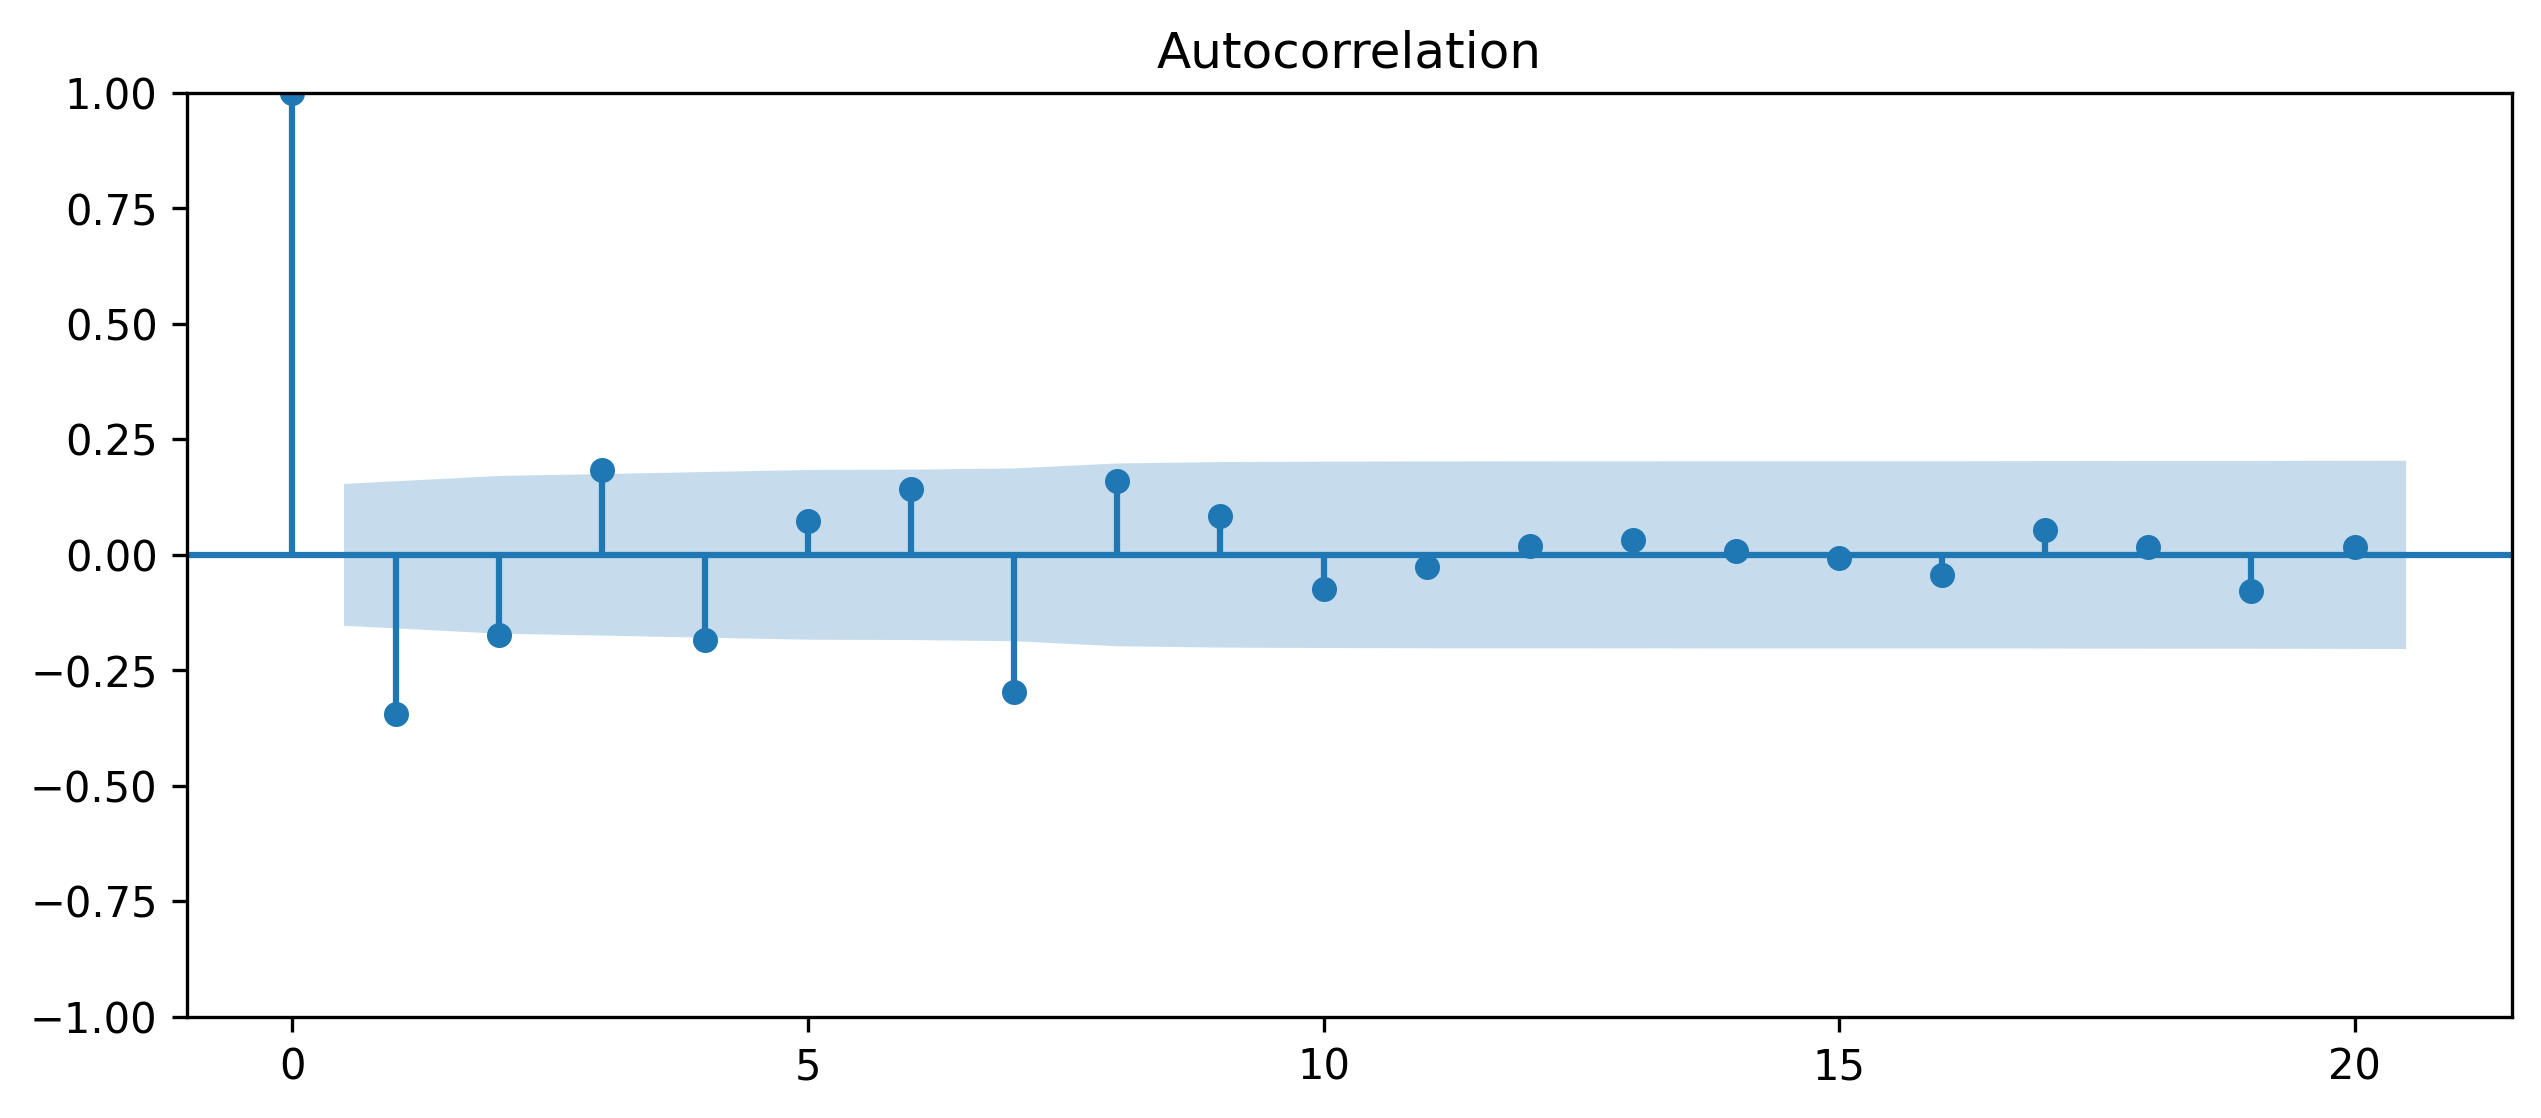
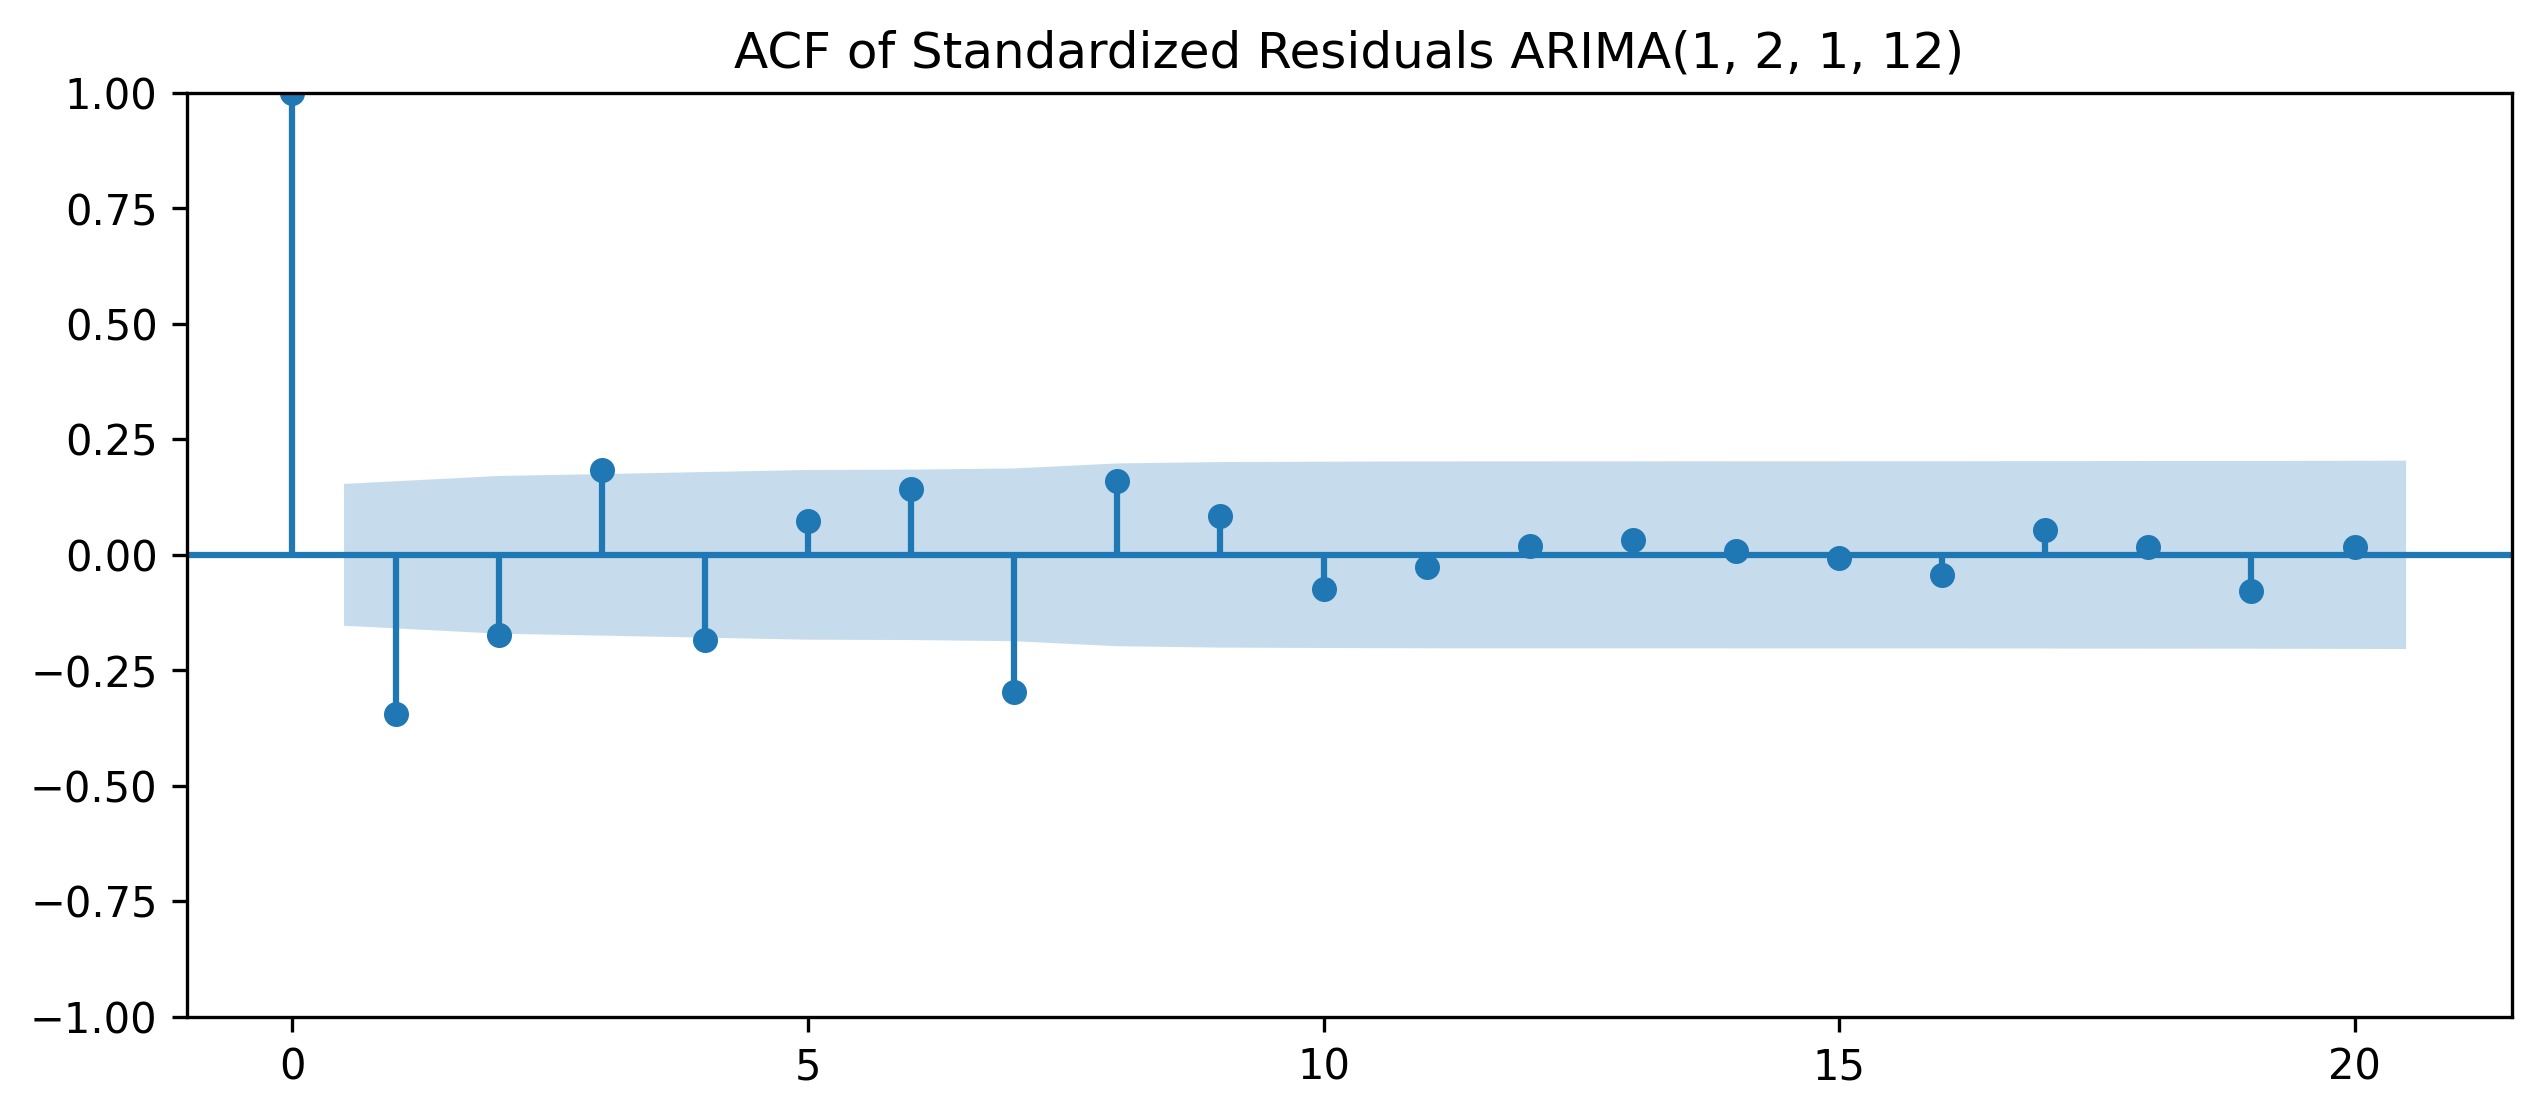
prac model

Changed region(s): [[0.2798, 0.0304, 0.7773, 0.0608]]

diff --git a/practice/statistical_model/ARIMA_model.py b/practice/statistical_model/ARIMA_model.py
@@ -41,9 +41,16 @@ def get_log_dir() -> Path:
 
 # --- Hàm hỗ trợ ghi file ---
 def save_report(content, filename):
-    with open(filename, 'w', encoding='utf-8') as f:
+    """Lưu báo cáo vào file. Tự động sử dụng get_log_dir() nếu filename là đường dẫn tương đối."""
+    # Nếu filename không phải đường dẫn tuyệt đối, sử dụng get_log_dir()
+    if not Path(filename).is_absolute():
+        filepath = get_log_dir() / filename
+    else:
+        filepath = Path(filename)
+    
+    with open(filepath, 'w', encoding='utf-8') as f:
         f.write(content)
-    print(f"Successfully generated: {filename}")
+    print(f"Successfully generated: {filepath}")
 
 # =====================================================
 # LOGGER
@@ -514,6 +521,26 @@ def fit_sarima(train: pd.Series, order: tuple, s_order: tuple):
 # =====================================================
 # RESIDUALS
 # =====================================================
+def standardize_residuals(residuals: pd.Series) -> pd.Series:
+    """
+    Chuẩn hóa phần dư (standardized residuals).
+    
+    Công thức: standardized_residuals = (residuals - mean) / std
+    
+    Phần dư đã chuẩn hóa có trung bình = 0 và độ lệch chuẩn = 1,
+    giúp dễ dàng so sánh và phát hiện outliers.
+    """
+    mean_res = residuals.mean()
+    std_res = residuals.std()
+    
+    if std_res == 0:
+        res_logger.warning("Residual std = 0, cannot standardize")
+        return residuals
+    
+    standardized = (residuals - mean_res) / std_res
+    return standardized
+
+
 def residual_diagnostics(residuals: pd.Series, order: tuple):
     """
     Thực hiện chẩn đoán phần dư (residuals) để kiểm tra chất lượng mô hình.
@@ -523,21 +550,43 @@ def residual_diagnostics(residuals: pd.Series, order: tuple):
     res_logger.info(f"Residual diagnostics ARIMA{order}")
 
     mean_res = residuals.mean()
+    std_res = residuals.std()
     res_logger.info(f"Residual mean: {mean_res:.6f}")
+    res_logger.info(f"Residual std: {std_res:.6f}")
 
     if abs(mean_res) < 0.01:
         res_logger.info("Residual mean approx 0 -> OK")
     else:
         res_logger.info("Residual mean != 0 -> CHECK")
 
+    # Vẽ biểu đồ phần dư gốc
     fig, ax = plt.subplots(figsize=(12, 4))
     ax.plot(residuals)
     ax.set_title(f"Residuals ARIMA{order}")
     ax.grid()
     save_plot(fig, f"04_residuals_{order}.png")
 
+    # Chuẩn hóa phần dư
+    standardized_res = standardize_residuals(residuals)
+    res_logger.info(f"Standardized residuals - mean: {standardized_res.mean():.6f}, std: {standardized_res.std():.6f}")
+
+    # Vẽ biểu đồ phần dư đã chuẩn hóa
+    fig, ax = plt.subplots(figsize=(12, 4))
+    ax.plot(standardized_res)
+    ax.set_title(f"Standardized Residuals ARIMA{order}")
+    ax.axhline(y=0, color='r', linestyle='--', alpha=0.5)
+    ax.axhline(y=2, color='orange', linestyle='--', alpha=0.5, label='±2σ')
+    ax.axhline(y=-2, color='orange', linestyle='--', alpha=0.5)
+    ax.axhline(y=3, color='red', linestyle='--', alpha=0.5, label='±3σ')
+    ax.axhline(y=-3, color='red', linestyle='--', alpha=0.5)
+    ax.legend()
+    ax.grid()
+    save_plot(fig, f"04_residuals_standardized_{order}.png")
+
+    # Vẽ ACF của phần dư đã chuẩn hóa
     fig, ax = plt.subplots(figsize=(10, 4))
-    plot_acf(residuals.dropna(), lags=20, ax=ax)
+    plot_acf(standardized_res.dropna(), lags=20, ax=ax)
+    ax.set_title(f"ACF of Standardized Residuals ARIMA{order}")
     save_plot(fig, f"05_residuals_acf_{order}.png")
 
 
@@ -678,17 +727,17 @@ def main():
 
     save_report(
         generate_z_table_report(len(ts)),
-        f"logs/z_table_{timestamp}.txt"
+        f"z_table_{timestamp}.txt"
     )
 
     save_report(
         generate_stationarity_report(ts),
-        f"logs/stationarity_test_{timestamp}.txt"
+        f"stationarity_test_{timestamp}.txt"
     )
 
     save_report(
         generate_analysis_report(ts_final),
-        f"logs/ACF_PACF_Analysis_{timestamp}.txt"
+        f"ACF_PACF_Analysis_{timestamp}.txt"
     )
 
     # Chia tập Train/Test (80/20)
@@ -718,7 +767,7 @@ def main():
     pred_arima = forecast(best_arima, len(test))
     pred_sarima = forecast(best_sarima, len(test))
 
-    # 10. Đánh giá và So sánh
+    # Đánh giá và So sánh
     main_logger.info(f"--- SO SÁNH AIC ---")
     main_logger.info(f"ARIMA AIC: {best_arima.aic:.2f}")
     main_logger.info(f"SARIMA AIC: {best_sarima.aic:.2f}") 
